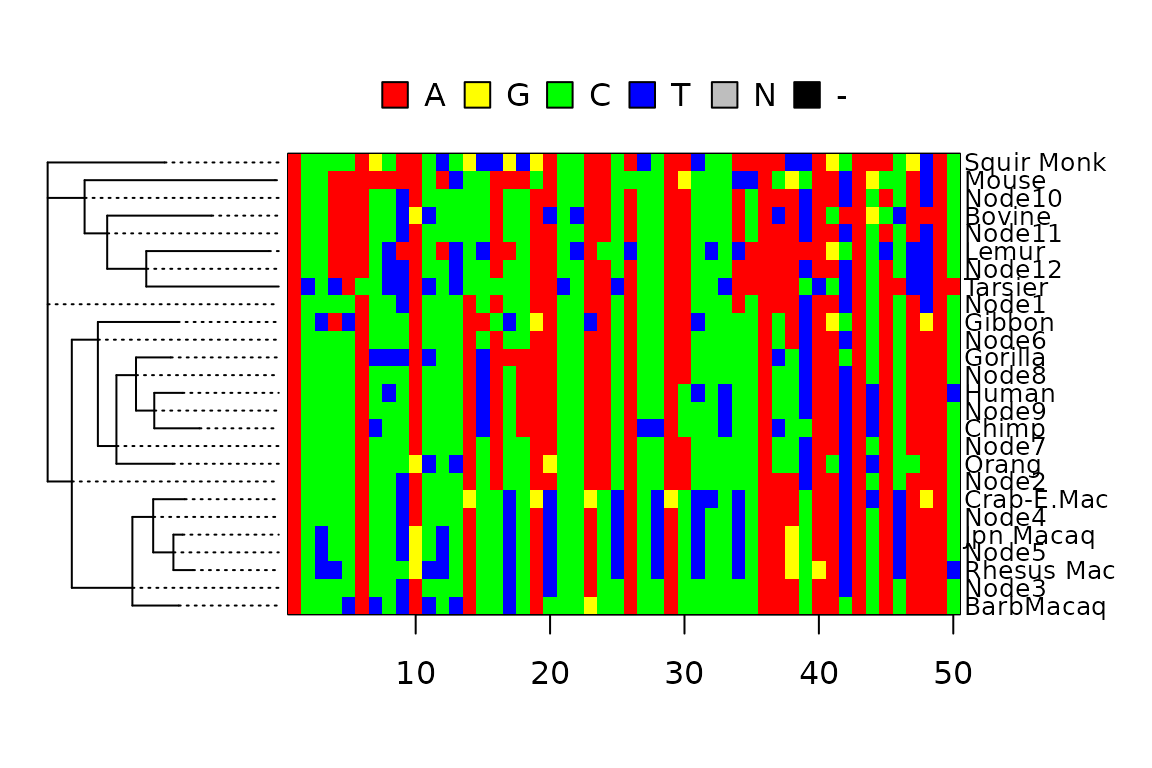
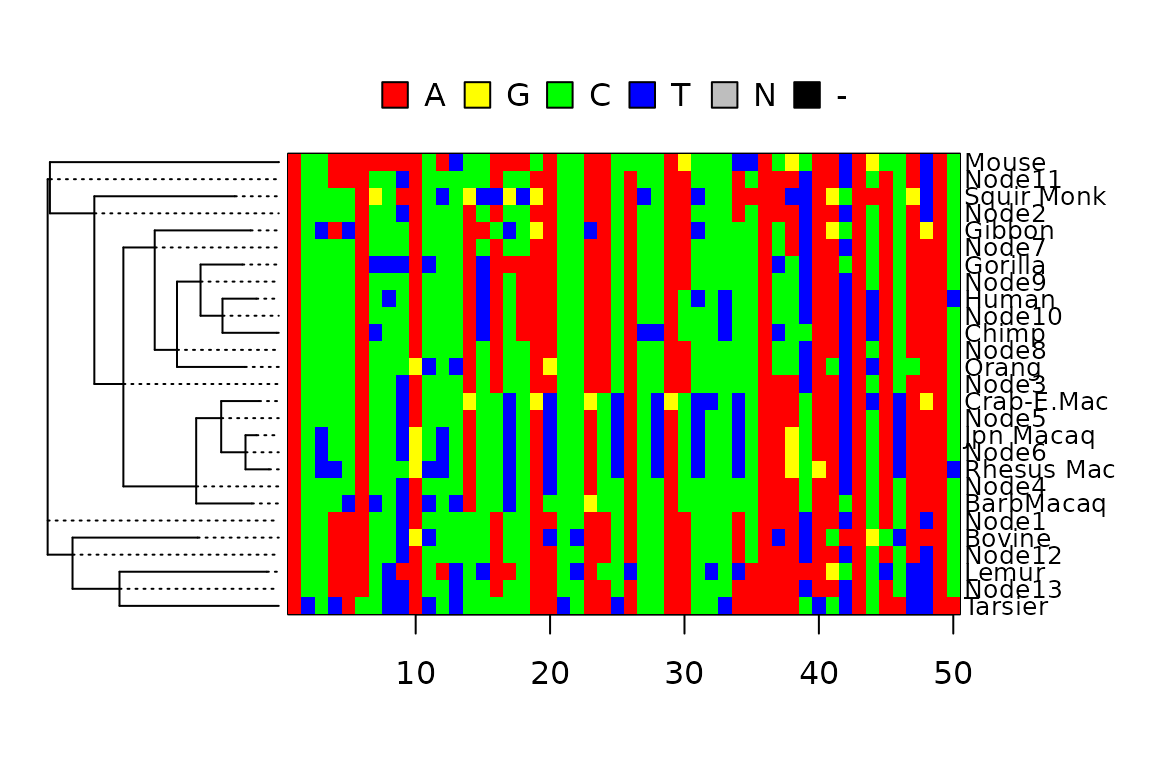
Deploying to gh-pages from @ KlausVigo/phangorn@3be75a32d2694f70a3573d98c6b4692a609245f9 🚀

Changed region(s): [[0.0312, 0.1875, 0.9688, 0.8125]]

diff --git a/articles/Ancestral.html b/articles/Ancestral.html
@@ -160,7 +160,8 @@ al. 2000)</span> are implemented. Joint reconstructions is only
 available for models without rate variation (e.g. gamma models) or
 invariant sites.</p>
 <div class="sourceCode" id="cb7"><pre class="downlit sourceCode r">
-<code class="sourceCode R"><span><span class="va">fit</span> <span class="op">&lt;-</span> <span class="fu"><a href="../reference/pml_bb.html">pml_bb</a></span><span class="op">(</span><span class="va">primates</span>, model<span class="op">=</span><span class="st">"K80"</span>, rearrangement<span class="op">=</span><span class="st">"NNI"</span><span class="op">)</span></span></code></pre></div>
+<code class="sourceCode R"><span><span class="va">fit</span> <span class="op">&lt;-</span> <span class="fu"><a href="../reference/pml_bb.html">pml_bb</a></span><span class="op">(</span><span class="va">primates</span>, model<span class="op">=</span><span class="st">"K80"</span>, rearrangement<span class="op">=</span><span class="st">"NNI"</span><span class="op">)</span></span>
+<span><span class="va">fit</span> <span class="op">&lt;-</span> <span class="fu"><a href="https://rdrr.io/r/stats/update.html" class="external-link">update</a></span><span class="op">(</span><span class="va">fit</span>, tree<span class="op">=</span><span class="fu"><a href="../reference/midpoint.html">midpoint</a></span><span class="op">(</span><span class="va">fit</span><span class="op">$</span><span class="va">tree</span><span class="op">)</span><span class="op">)</span></span></code></pre></div>
 <p>We can assign the ancestral states according to the highest
 likelihood (“ml”):
 <math display="block" xmlns="http://www.w3.org/1998/Math/MathML"><semantics><mrow><mi>P</mi><mo stretchy="false" form="prefix">(</mo><msub><mi>x</mi><mi>r</mi></msub><mo>=</mo><mi>A</mi><mo stretchy="false" form="postfix">)</mo><mo>=</mo><mfrac><mrow><mi>L</mi><mo stretchy="false" form="prefix">(</mo><msub><mi>x</mi><mi>r</mi></msub><mo>=</mo><mi>A</mi><mo stretchy="false" form="postfix">)</mo></mrow><mrow><munder><mo>∑</mo><mrow><mi>k</mi><mo>∈</mo><mo stretchy="false" form="prefix">{</mo><mi>A</mi><mo>,</mo><mi>C</mi><mo>,</mo><mi>G</mi><mo>,</mo><mi>T</mi><mo stretchy="false" form="postfix">}</mo></mrow></munder><mi>L</mi><mo stretchy="false" form="prefix">(</mo><msub><mi>x</mi><mi>r</mi></msub><mo>=</mo><mi>k</mi><mo stretchy="false" form="postfix">)</mo></mrow></mfrac></mrow><annotation encoding="application/x-tex">

diff --git a/articles/Ancestral.md b/articles/Ancestral.md
@@ -100,6 +100,7 @@ invariant sites.
 ``` r
 
 fit <- pml_bb(primates, model="K80", rearrangement="NNI")
+fit <- update(fit, tree=midpoint(fit$tree))
 ```
 
 We can assign the ancestral states according to the highest likelihood